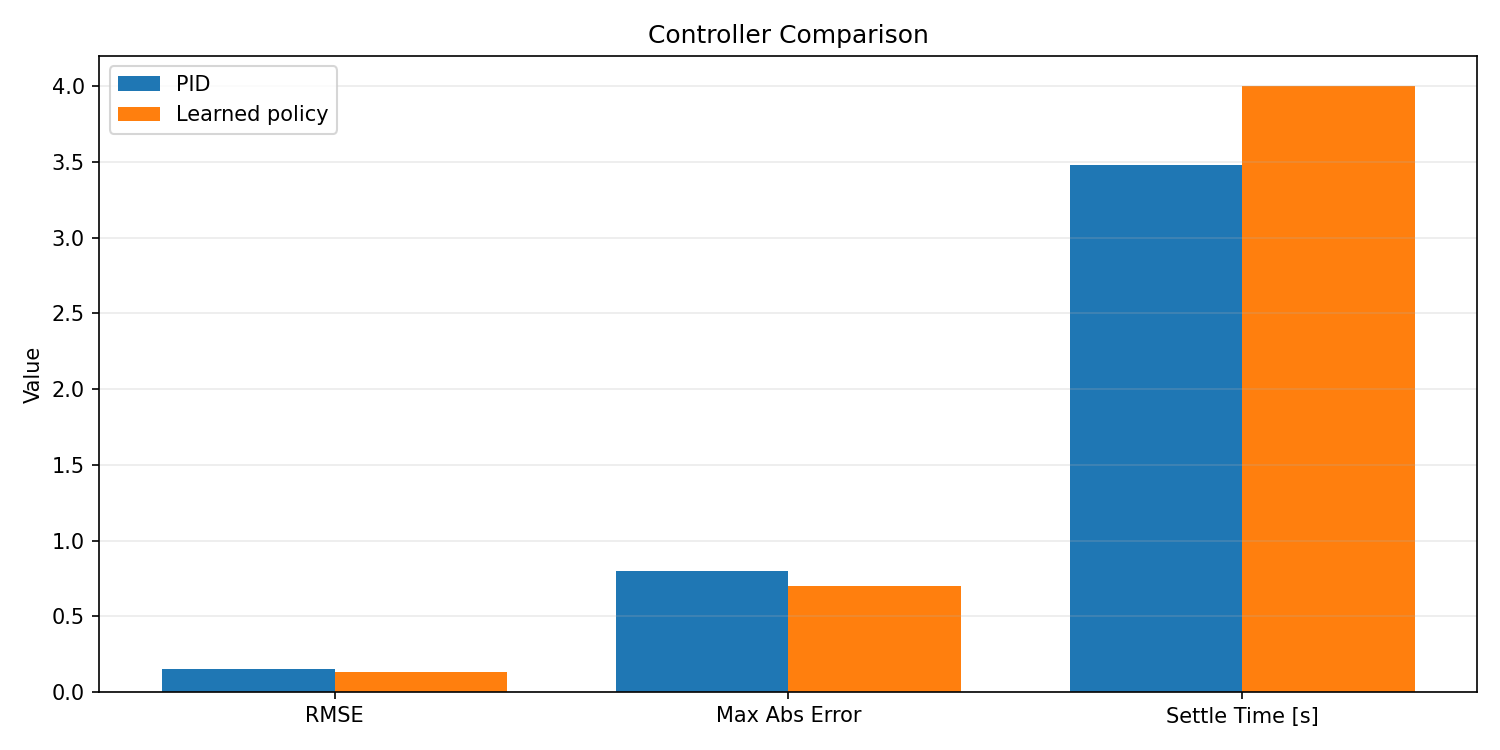
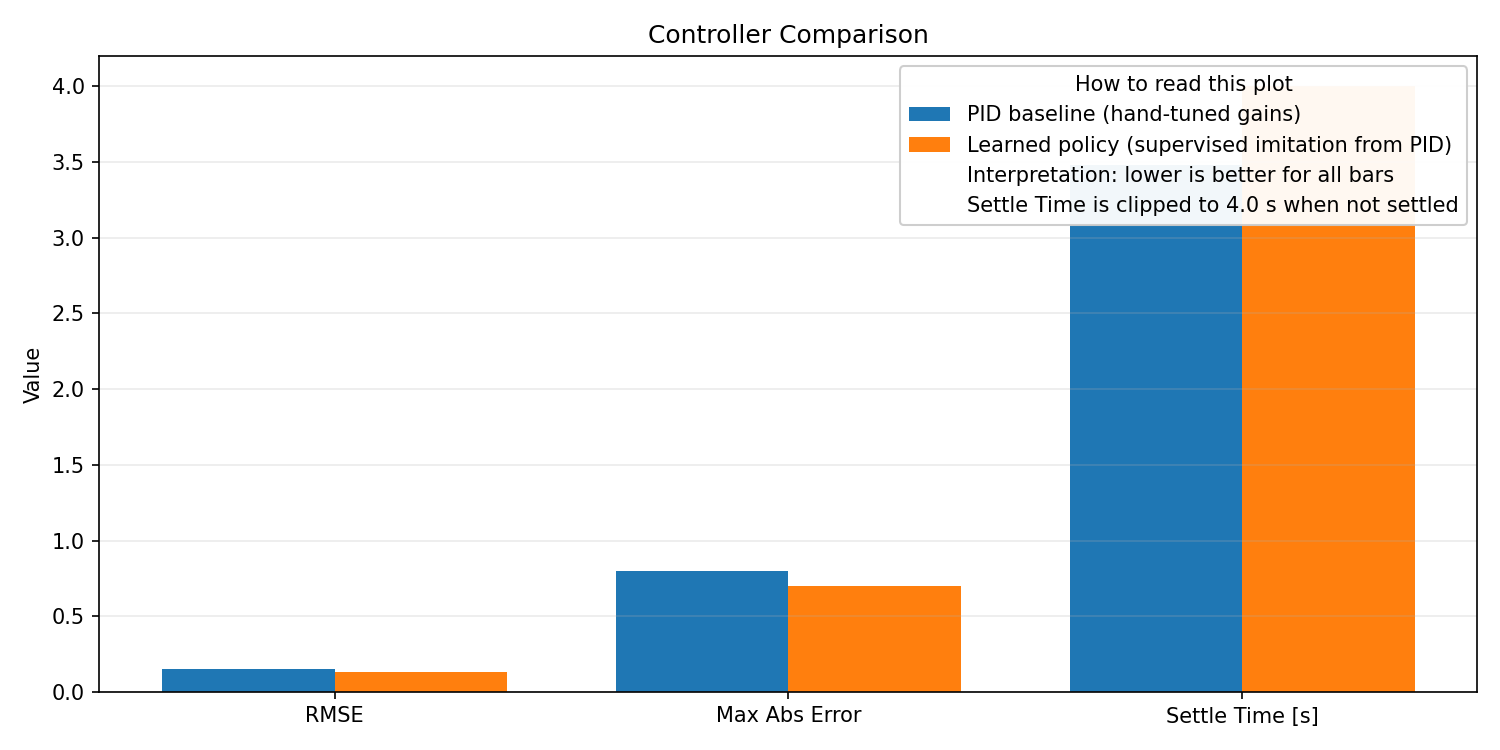
feat: add explanatory legends to control plots

Changed region(s): [[0.5827, 0.092, 0.9813, 0.3067], [0.0613, 0.092, 0.2147, 0.184]]

diff --git a/scripts/generate_plots.py b/scripts/generate_plots.py
@@ -3,6 +3,8 @@ from __future__ import annotations
 from pathlib import Path
 
 import matplotlib.pyplot as plt
+from matplotlib.lines import Line2D
+from matplotlib.patches import Patch
 
 from hand_control.controllers import PIDController
 from hand_control.learner import LinearPolicy, TrainingSample
@@ -45,14 +47,40 @@ def save_tracking_plot(pid_records: list[SimulationRecord], learned_records: lis
     learned_theta = [r.theta for r in learned_records]
 
     plt.figure(figsize=(10, 5))
-    plt.plot(t, target, "--", linewidth=2.2, label="Target angle")
-    plt.plot(t, pid_theta, linewidth=2.0, label="PID")
-    plt.plot(t, learned_theta, linewidth=2.0, label="Learned policy")
+    plt.plot(
+        t,
+        target,
+        "--",
+        linewidth=2.2,
+        color="#2f2f2f",
+        label="Reference command: desired joint angle (step from 0.0 to 0.8 rad)",
+    )
+    plt.plot(
+        t,
+        pid_theta,
+        linewidth=2.0,
+        color="#1f77b4",
+        label="PID baseline: hand-tuned feedback controller output",
+    )
+    plt.plot(
+        t,
+        learned_theta,
+        linewidth=2.0,
+        color="#ff7f0e",
+        label="Learned policy: linear model trained to imitate PID torque",
+    )
+    plt.axvline(
+        0.2,
+        color="#7f7f7f",
+        linestyle=":",
+        linewidth=1.2,
+        label="Command change event at t = 0.2 s",
+    )
     plt.xlabel("Time [s]")
     plt.ylabel("Joint angle [rad]")
     plt.title("Finger Tracking Response")
     plt.grid(alpha=0.3)
-    plt.legend()
+    plt.legend(title="How to read this plot", loc="lower right", framealpha=0.95)
     plt.tight_layout()
     plt.savefig(out_path, dpi=150)
     plt.close()
@@ -72,14 +100,27 @@ def save_metrics_plot(pid_records: list[SimulationRecord], learned_records: list
     x = range(len(names))
     width = 0.38
 
+    pid_color = "#1f77b4"
+    learned_color = "#ff7f0e"
+
     plt.figure(figsize=(10, 5))
-    plt.bar([i - width / 2 for i in x], pid_values, width=width, label="PID")
-    plt.bar([i + width / 2 for i in x], learned_values, width=width, label="Learned policy")
+    plt.bar([i - width / 2 for i in x], pid_values, width=width, color=pid_color)
+    plt.bar([i + width / 2 for i in x], learned_values, width=width, color=learned_color)
     plt.xticks(list(x), names)
     plt.ylabel("Value")
     plt.title("Controller Comparison")
     plt.grid(axis="y", alpha=0.25)
-    plt.legend()
+    plt.legend(
+        handles=[
+            Patch(facecolor=pid_color, label="PID baseline (hand-tuned gains)"),
+            Patch(facecolor=learned_color, label="Learned policy (supervised imitation from PID)"),
+            Line2D([], [], linestyle="none", label="Interpretation: lower is better for all bars"),
+            Line2D([], [], linestyle="none", label="Settle Time is clipped to 4.0 s when not settled"),
+        ],
+        title="How to read this plot",
+        loc="upper right",
+        framealpha=0.95,
+    )
     plt.tight_layout()
     plt.savefig(out_path, dpi=150)
     plt.close()
@@ -99,4 +140,3 @@ def main() -> None:
 
 if __name__ == "__main__":
     main()
-
